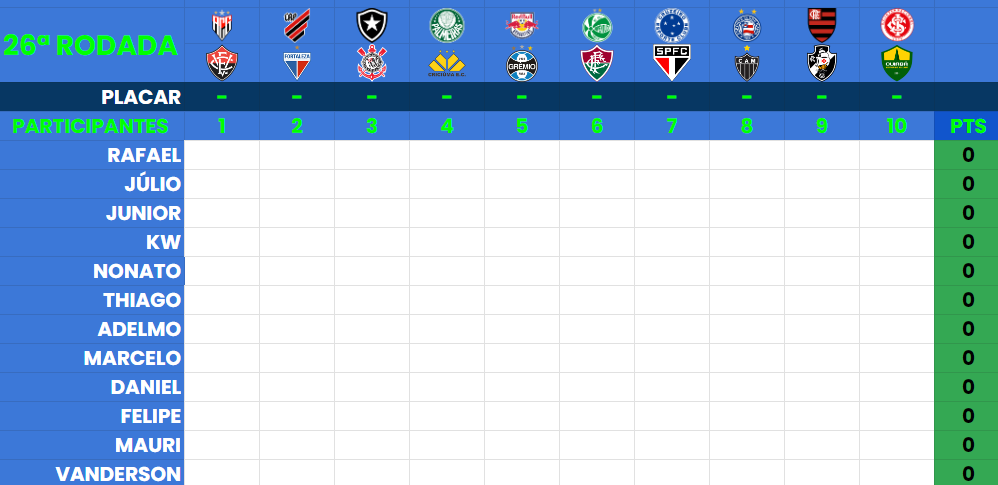
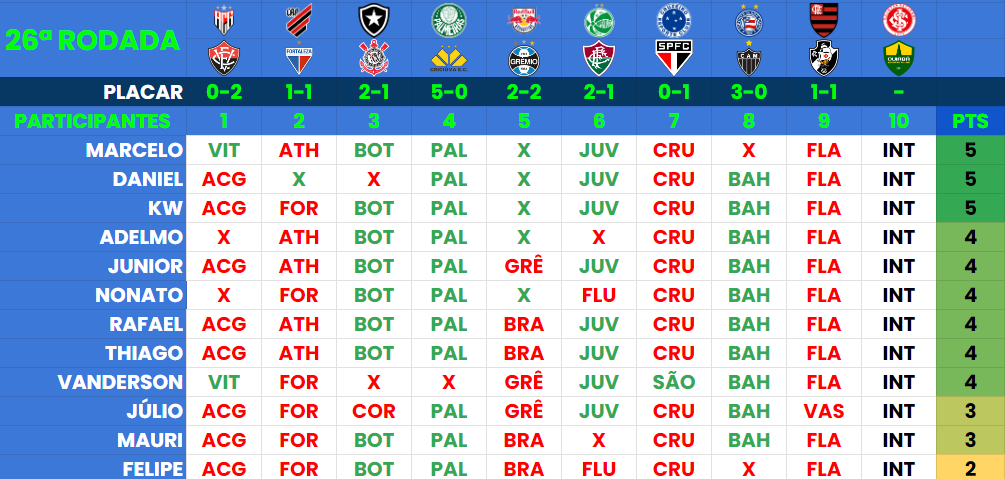
u

diff --git a/index.html b/index.html
@@ -51,12 +51,12 @@
           <img src="./assets/Round26.png" alt="Logo do Campeonato Brasileiro 2022" />
         </div>
         <div class="text">
-          <h2 class="title"><a href="./palpites_26.html">MERCADO ABERTO PARA A 26ª RODADA</a>
+          <h2 class="title"><a href="./predictor.html">MERCADO FECHADO</a>
           </h2>
           <p>
-            Mercado fecha no próximo sábado, dia 14/09 às 16:00
+            Bola rolando para a 26ª Rodada
           </p>
-          <a class="button" href="./palpites_26.html">Palpitem na 26ª Rodada</a>
+          <a class="button" href="./predictor.html">Resumão da 26ª Rodada</a>
         </div>
       </div>
     </section>
